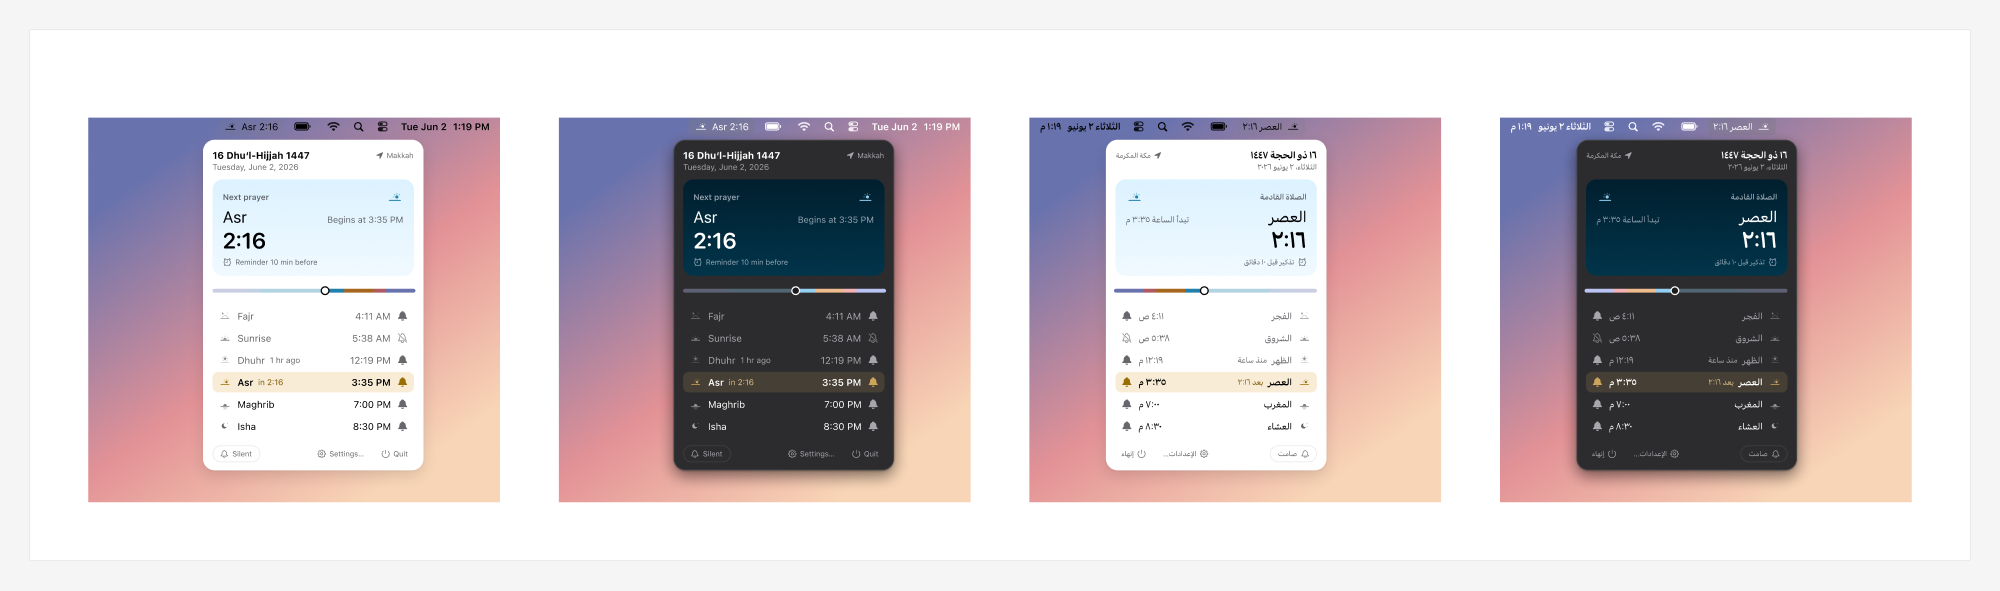
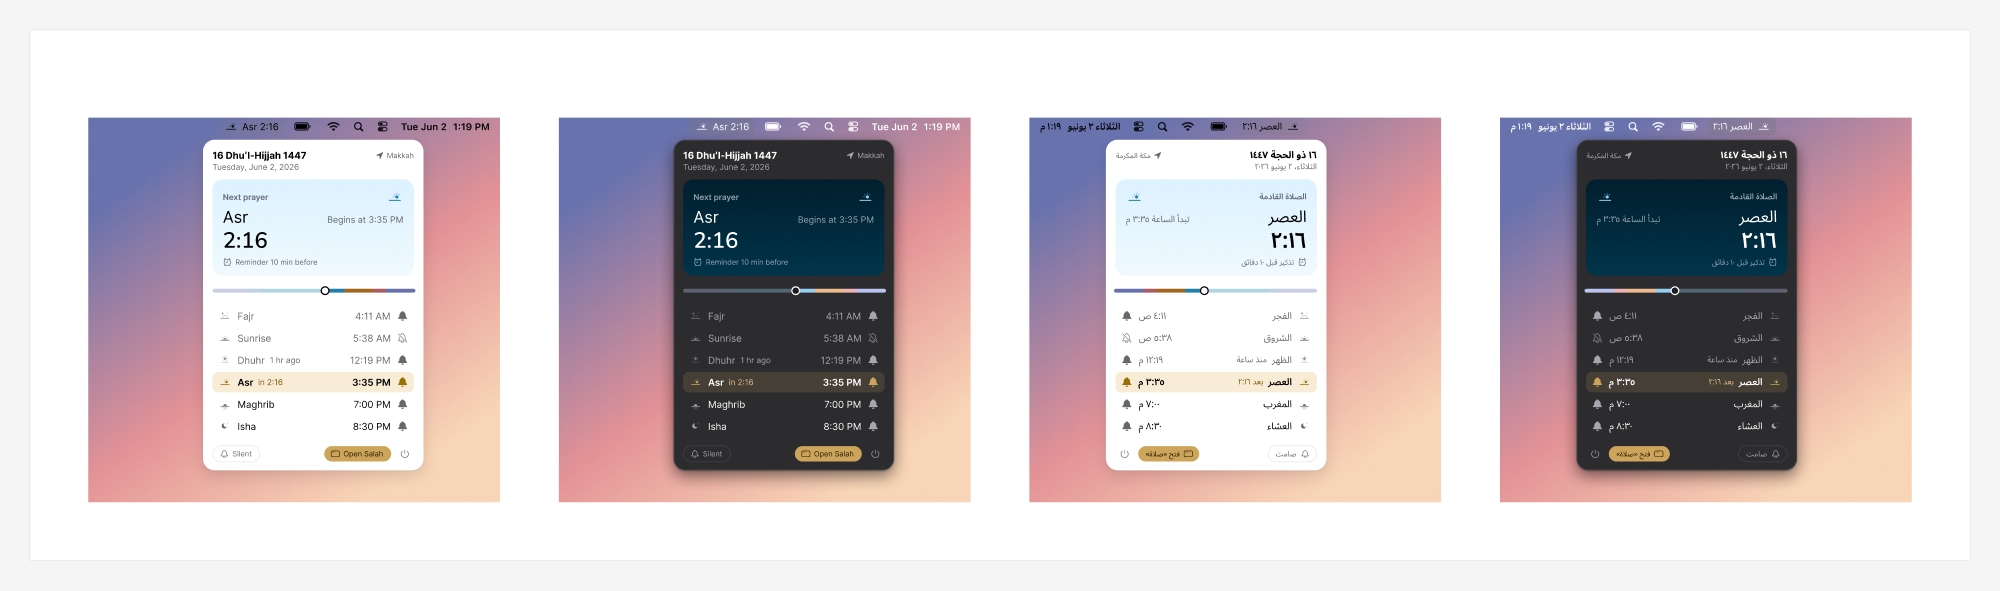
Refresh the macOS dropdown and Notifications previews from the design

diff --git a/Design/README.md b/Design/README.md
@@ -464,16 +464,17 @@ picks; there's no separate Arabic token file.
 ## Previews
 
 `Previews/` holds a few rendered screens, for reading this folder without Figma. They show
-Apple's system components and are rendered in Apple's fonts, with the Typeface collection
-in its SF modes. They use real times: Makkah on 2 June 2026 with Umm al-Qura, unless the
-image shows otherwise.
+Apple's system components. Most are rendered in Apple's fonts, with the Typeface collection
+in its SF modes; `macos-dropdown.png` and `macos-settings-notifications-dark.png` are
+renders of the macOS page, in its stand-in fonts. They use real times: Makkah on 2 June 2026
+with Umm al-Qura, unless the image shows otherwise.
 
 - `cover.png`: the cover of the library.
 - `iphone-today.png`: Today on iPhone, in English and Arabic, light and dark.
 - `iphone-phases.png`: Today through the five prayer periods, light and dark.
 - `ipad-today.png`: Today on iPad in landscape.
 - `macos-dropdown.png`: the menu-bar dropdown, in English and Arabic, light and dark.
-- `macos-settings-notifications-dark.png`: the Notifications pane of Settings, in dark.
+- `macos-settings-notifications-dark.png`: the Notifications pane of Salah's window, in dark.
 - `macos-desktop-widgets.png`: the desktop widgets, with the Stop face.
 - `watchos.png`: the watch app, in English and Arabic.
 - `ios-home-screen-widgets.png`: Home Screen widgets in light, dark, tinted and Arabic.
